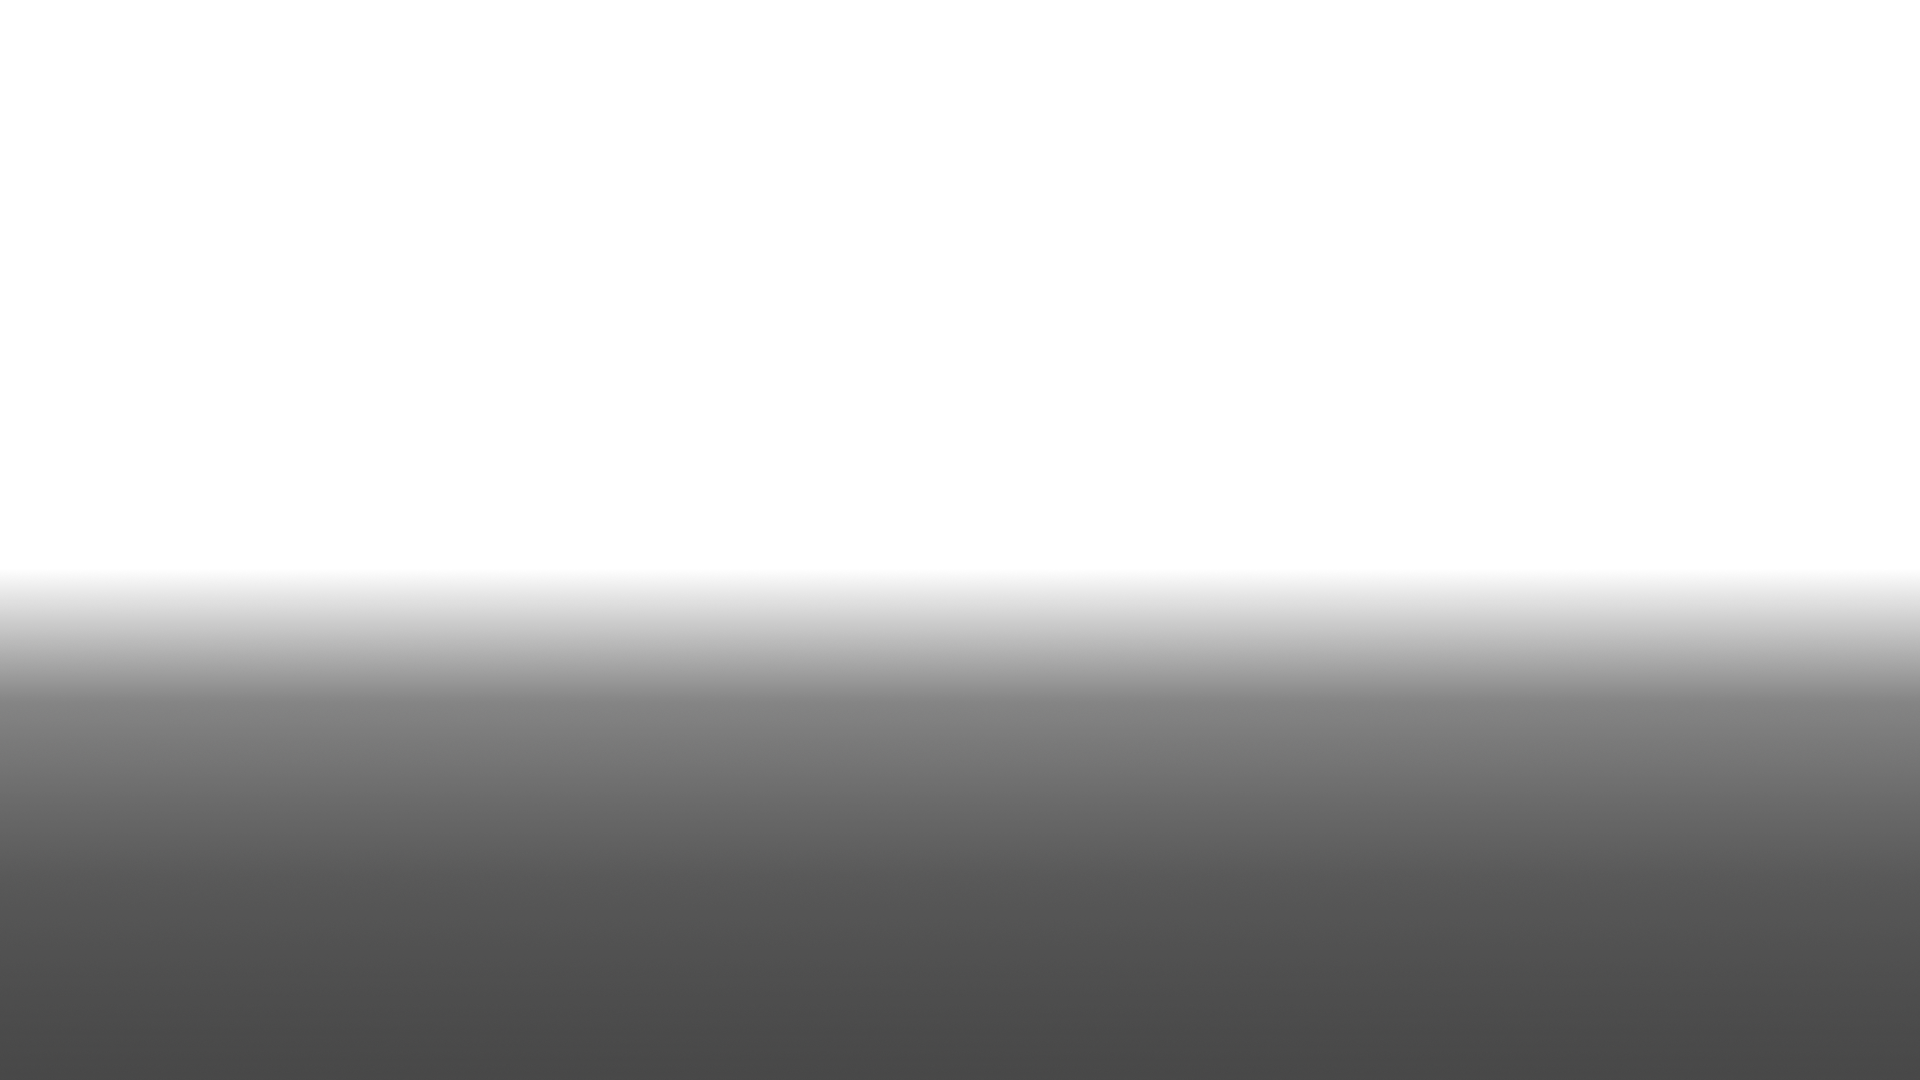
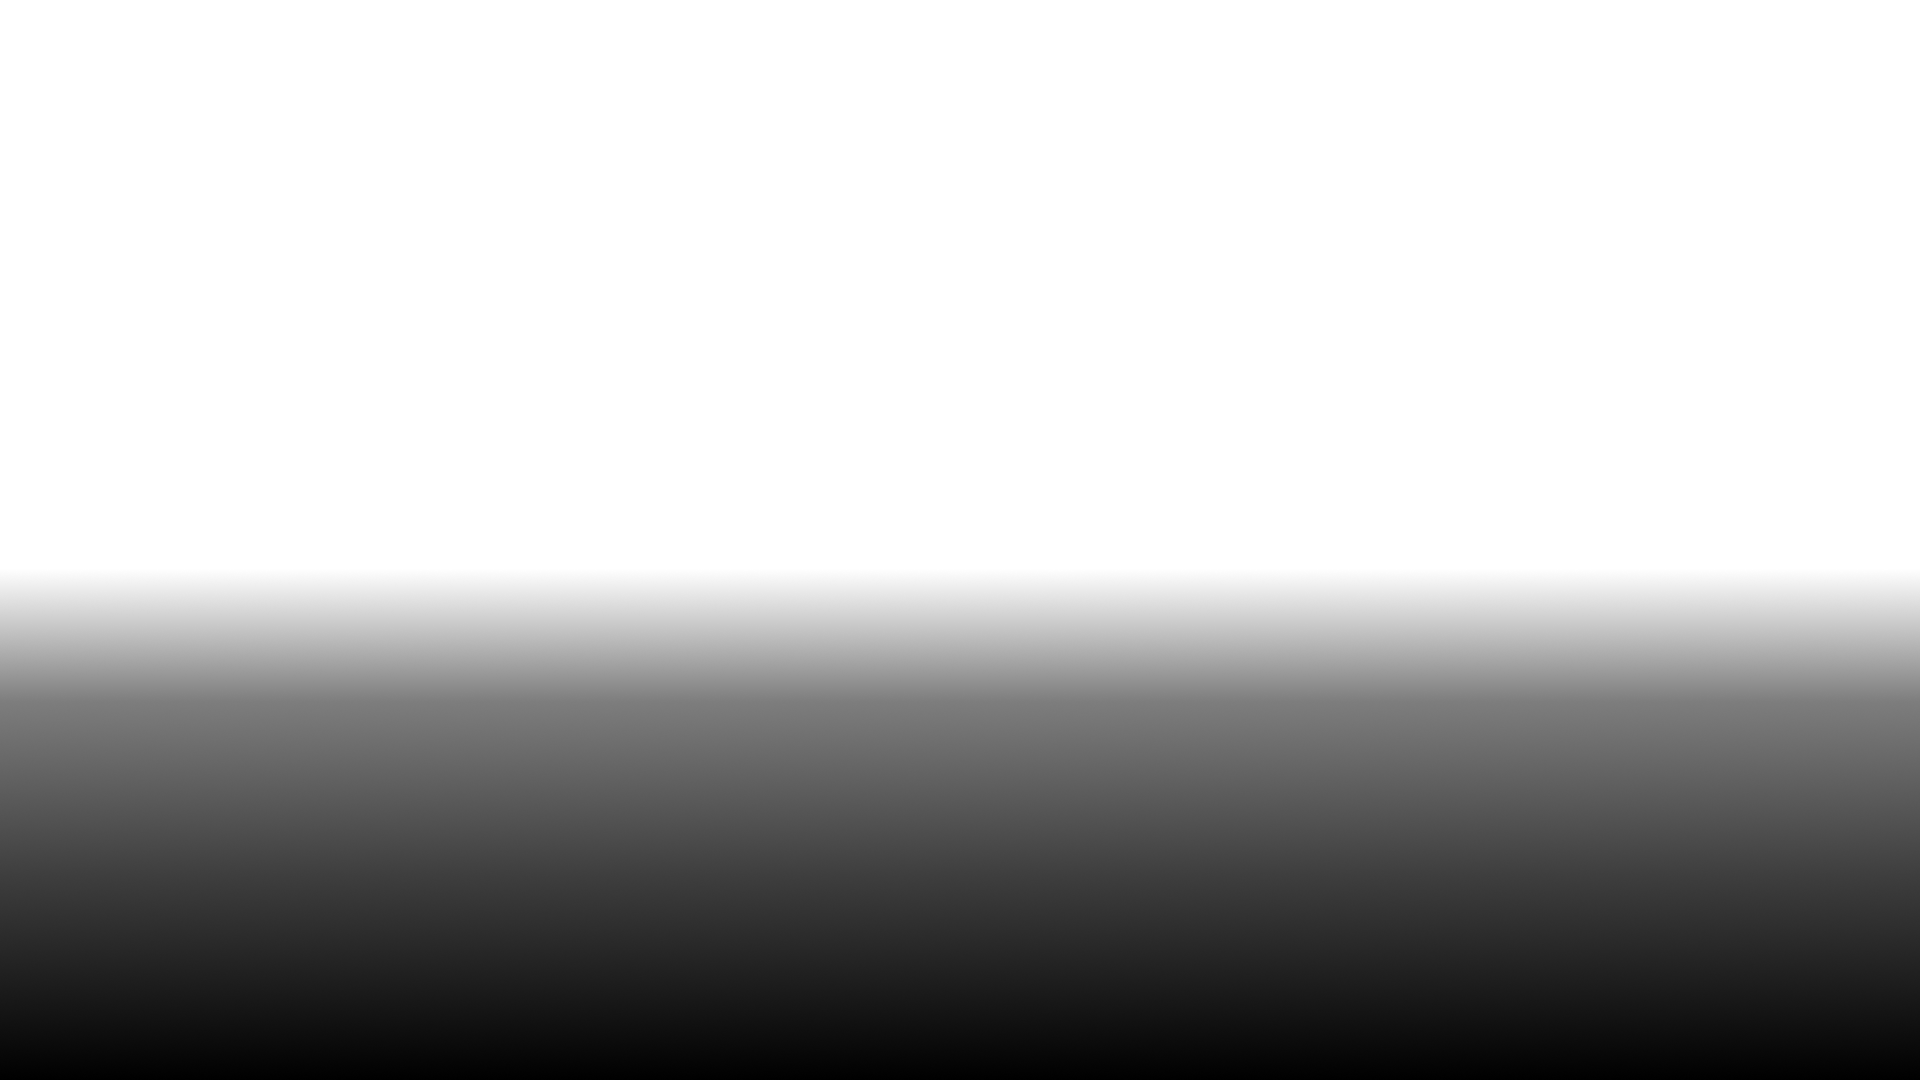
Remove alpha from images reducing size, modify gradient

Changed region(s): [[0.0, 0.7639, 1.0, 1.0]]

diff --git a/src/filemanager.cpp b/src/filemanager.cpp
@@ -605,7 +605,7 @@ void FileManager::frameReadyHandler(const QVector<uint8_t>& frameBinaryData,
     QPixmap merged(image.width(),
                    image.height());
 
-    merged.fill(Qt::transparent);
+    //merged.fill(Qt::transparent);
 
     QPainter painter(&merged);
     painter.drawImage(QRect(0, 0, image.width(), image.height()),
